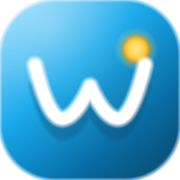
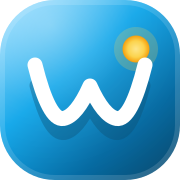
feat: 브랜드 이미지·파비콘·배너 비주얼 고도화
Wakation 전용 여정 준비 이미지를 생성·육안 검수해 하우스 배너와 OG 공유 이미지에 적용했습니다. 동일 SVG 원본에서 애플 아이콘·레거시 파비콘·192/512 PWA 아이콘·마스커블 아이콘을 재생성하고 매니페스트를 보완했습니다. 로고 인스턴스별 그라디언트 ID와 키보드 포커스를 개선했으며, 제휴 카드의 범용 에디토리얼 사진은 장식 이미지로 처리해 실상품 사진으로 오인될 수 있는 alt를 제거하고 색감을 통일했습니다. 모바일·데스크톱 화면, 신규 자산 HTTP 200, npx tsc --noEmit, npm run build를 검증했습니다.

diff --git a/src/components/brand/Logo.tsx b/src/components/brand/Logo.tsx
@@ -1,4 +1,5 @@
 import Link from 'next/link'
+import { useId } from 'react'
 import { cn } from '@/lib/utils'
 
 type LogoProps = {
@@ -7,27 +8,34 @@ type LogoProps = {
 }
 
 export function Logo({ className, variant = 'dark' }: LogoProps) {
+  const uid = useId().replace(/:/g, '')
+  const gradientId = `logo-grad-${uid}`
+  const highlightId = `logo-hl-${uid}`
+  const sunId = `logo-sun-${uid}`
   const wordmark = variant === 'light' ? 'text-white' : 'text-[#0d0d0d]'
   const tagline = variant === 'light' ? 'text-sky-300/90' : 'text-sky-600/80'
 
   return (
-    <Link href="/" className={cn('flex items-center gap-3 shrink-0 group', className)}>
+    <Link
+      href="/"
+      className={cn('flex items-center gap-2.5 sm:gap-3 shrink-0 group rounded-xl focus-visible:outline-2 focus-visible:outline-offset-4 focus-visible:outline-sky-400', className)}
+    >
       <svg
         width="36"
         height="36"
         viewBox="0 0 36 36"
         fill="none"
         xmlns="http://www.w3.org/2000/svg"
-        className="shrink-0 group-hover:scale-105 group-hover:rotate-[-3deg] transition-transform duration-300"
+        className="w-9 h-9 sm:w-10 sm:h-10 shrink-0 group-hover:scale-105 group-hover:rotate-[-3deg] transition-transform duration-300"
         aria-hidden
       >
-        <rect width="36" height="36" rx="11" fill="url(#logo-grad)" />
+        <rect width="36" height="36" rx="11" fill={`url(#${gradientId})`} />
         {/* 좌상단 하이라이트 — 유리 질감 깊이 */}
-        <rect width="36" height="36" rx="11" fill="url(#logo-hl)" />
+        <rect width="36" height="36" rx="11" fill={`url(#${highlightId})`} />
         <rect x="0.5" y="0.5" width="35" height="35" rx="10.5" fill="none" stroke="#ffffff" strokeOpacity="0.14" />
         {/* 태양 — 휴가의 따뜻함 (글로우 + 라디얼) */}
         <circle cx="27.2" cy="9.8" r="4.4" fill="#fcd34d" opacity="0.22" />
-        <circle cx="27.2" cy="9.8" r="2.7" fill="url(#logo-sun)" />
+        <circle cx="27.2" cy="9.8" r="2.7" fill={`url(#${sunId})`} />
         {/* 물결 W — 일과 바다가 만나는 곳 (에코 웨이브로 깊이) */}
         <path
           d="M7.4 15.5 Q10 25.4 12.9 24.9 Q15.4 24.4 18 18.9 Q20.6 24.4 23.1 24.9 Q26 25.4 28.6 15.5"
@@ -46,18 +54,18 @@ export function Logo({ className, variant = 'dark' }: LogoProps) {
           strokeLinejoin="round"
         />
         <defs>
-          <linearGradient id="logo-grad" x1="4" y1="2" x2="34" y2="36" gradientUnits="userSpaceOnUse">
+          <linearGradient id={gradientId} x1="4" y1="2" x2="34" y2="36" gradientUnits="userSpaceOnUse">
             <stop stopColor="#7dd3fc" />
             <stop offset="0.35" stopColor="#0ea5e9" />
             <stop offset="0.72" stopColor="#0369a1" />
             <stop offset="1" stopColor="#0c4a6e" />
           </linearGradient>
-          <radialGradient id="logo-hl" cx="0.28" cy="0.14" r="0.9">
+          <radialGradient id={highlightId} cx="0.28" cy="0.14" r="0.9">
             <stop stopColor="#ffffff" stopOpacity="0.32" />
             <stop offset="0.5" stopColor="#ffffff" stopOpacity="0.06" />
             <stop offset="1" stopColor="#ffffff" stopOpacity="0" />
           </radialGradient>
-          <radialGradient id="logo-sun" cx="0.5" cy="0.5" r="0.5">
+          <radialGradient id={sunId} cx="0.5" cy="0.5" r="0.5">
             <stop stopColor="#fde68a" />
             <stop offset="0.6" stopColor="#fcd34d" />
             <stop offset="1" stopColor="#f59e0b" />

diff --git a/src/components/home/HouseBanner.tsx b/src/components/home/HouseBanner.tsx
@@ -1,6 +1,7 @@
 'use client'
 
 import Link from 'next/link'
+import Image from 'next/image'
 import { ArrowRight, Sparkles } from 'lucide-react'
 import { track } from '@vercel/analytics/react'
 import { useLang } from '@/context/LanguageContext'
@@ -31,12 +32,22 @@ export function HouseBanner() {
               /* 계측 실패 무시 */
             }
           }}
-          className={`group relative block overflow-hidden rounded-3xl bg-gradient-to-r ${c.gradient} px-7 py-8 md:px-10 md:py-9 shadow-sm hover:shadow-lg transition-shadow`}
+          className={`group relative block overflow-hidden rounded-3xl bg-gradient-to-r ${c.gradient} px-7 py-8 md:px-10 md:py-9 shadow-sm hover:shadow-xl transition-all`}
         >
-          {/* 장식 글로우 */}
-          <div className="pointer-events-none absolute -right-10 -top-10 w-44 h-44 rounded-full bg-white/10 blur-2xl" />
+          {c.image && (
+            <Image
+              src={c.image}
+              alt=""
+              fill
+              sizes="(max-width: 768px) 100vw, 1152px"
+              className="object-cover object-[62%_center] md:object-center transition-transform duration-700 group-hover:scale-[1.02]"
+            />
+          )}
+          {/* 왼쪽 카피 대비 + 오른쪽 사진 디테일을 함께 살리는 브랜드 오버레이 */}
+          <div className="pointer-events-none absolute inset-0 bg-gradient-to-r from-[#04121f]/98 via-[#075985]/92 to-[#075985]/35" />
+          <div className="pointer-events-none absolute inset-0 bg-gradient-to-t from-[#04121f]/35 via-transparent to-white/5" />
           <div className="relative flex flex-col md:flex-row md:items-center gap-5 md:gap-8">
-            <div className="flex-1 min-w-0">
+            <div className="flex-1 min-w-0 md:max-w-3xl">
               <span className="inline-flex items-center gap-1.5 text-white/80 text-[0.6875rem] font-bold uppercase tracking-widest mb-2">
                 <Sparkles className="w-3.5 h-3.5" strokeWidth={ICON_STROKE} />
                 {c.eyebrow[lang]}
@@ -44,11 +55,11 @@ export function HouseBanner() {
               <h2 className="text-white font-black text-xl md:text-2xl leading-tight mb-1.5">
                 {c.title[lang]}
               </h2>
-              <p className="text-white/75 text-sm md:text-[0.9375rem] leading-relaxed">
+              <span className="block text-white/78 text-sm md:text-[0.9375rem] leading-relaxed">
                 {c.sub[lang]}
-              </p>
+              </span>
             </div>
-            <span className="shrink-0 inline-flex items-center gap-2 bg-white text-[#0c4a6e] font-bold text-sm px-6 py-3 rounded-full group-hover:gap-2.5 transition-all whitespace-nowrap">
+            <span className="shrink-0 inline-flex items-center gap-2 bg-white text-[#0c4a6e] font-bold text-sm px-6 py-3 rounded-full shadow-[0_8px_30px_rgba(4,18,31,0.18)] group-hover:gap-2.5 group-hover:bg-sky-50 transition-all whitespace-nowrap">
               {c.cta[lang]}
               <ArrowRight className="w-4 h-4" strokeWidth={ICON_STROKE} />
             </span>

diff --git a/src/components/affiliate/AffiliateCard.tsx b/src/components/affiliate/AffiliateCard.tsx
@@ -84,10 +84,10 @@ export function AffiliateCard({ item, className = '', visual = false }: Affiliat
           {hasPhoto ? (
             <Image
               src={item.coverPhoto!}
-              alt={title}
+              alt=""
               fill
               sizes="(max-width: 640px) 50vw, (max-width: 1024px) 33vw, 384px"
-              className="object-cover group-hover:scale-105 transition-transform duration-700"
+              className="object-cover saturate-[0.94] contrast-[1.03] group-hover:scale-105 group-hover:saturate-100 transition-all duration-700"
             />
           ) : (
             /* 사진 없는 카드 — 흐릿한 이모지 대신 의도된 커버 디자인 (도트 패턴 + 큰 아이콘) */
@@ -237,7 +237,7 @@ export function AffiliateCard({ item, className = '', visual = false }: Affiliat
           {item.coverPhoto ? (
             <Image
               src={item.coverPhoto}
-              alt={title}
+              alt=""
               fill
               sizes="(max-width: 640px) 100vw, (max-width: 1024px) 50vw, 384px"
               className="object-cover opacity-80 group-hover:scale-105 group-hover:opacity-90 transition-all duration-700"

diff --git a/src/app/layout.tsx b/src/app/layout.tsx
@@ -32,7 +32,7 @@ export const metadata: Metadata = {
     // 기본 공유 썸네일 (1200×630) — 카톡·페북·슬랙 링크 미리보기
     images: [
       {
-        url: 'https://images.unsplash.com/photo-1520250497591-112f2f40a3f4?auto=format&fit=crop&w=1200&h=630&q=80',
+        url: 'https://www.wakation.kr/og-wakation-ai.jpeg',
         width: 1200,
         height: 630,
         alt: 'Wakation — 일하는 곳이 휴가지가 되는 순간',
@@ -44,7 +44,7 @@ export const metadata: Metadata = {
     title: 'Wakation | 일하고 쉬고 성장하는 워케이션 플랫폼',
     description: '국내외 워케이션, 성장캠프, 시장조사단, 어학·유학, 비자·체류 정보까지 일하는 사람을 위한 새로운 체류 플랫폼.',
     creator: '@wakation_kr',
-    images: ['https://images.unsplash.com/photo-1520250497591-112f2f40a3f4?auto=format&fit=crop&w=1200&h=630&q=80'],
+    images: ['https://www.wakation.kr/og-wakation-ai.jpeg'],
   },
   robots: {
     index: true,

diff --git a/src/app/manifest.ts b/src/app/manifest.ts
@@ -21,7 +21,10 @@ export default function manifest(): MetadataRoute.Manifest {
     categories: ['travel', 'business', 'lifestyle'],
     icons: [
       { src: '/icon.svg', type: 'image/svg+xml', sizes: 'any', purpose: 'any' },
-      { src: '/apple-icon.png', type: 'image/png', sizes: '180x180', purpose: 'maskable' },
+      { src: '/apple-icon.png', type: 'image/png', sizes: '180x180', purpose: 'any' },
+      { src: '/icons/wakation-192.png', type: 'image/png', sizes: '192x192', purpose: 'any' },
+      { src: '/icons/wakation-512.png', type: 'image/png', sizes: '512x512', purpose: 'any' },
+      { src: '/icons/wakation-maskable-512.png', type: 'image/png', sizes: '512x512', purpose: 'maskable' },
     ],
   }
 }

diff --git a/src/lib/campaigns.ts b/src/lib/campaigns.ts
@@ -20,6 +20,7 @@ export type HouseCampaign = {
   cta: L
   href: string
   gradient: string // tailwind gradient (from-… via-… to-…)
+  image?: string   // 배경 이미지. 카피는 HTML로 유지해 3언어·접근성 보장
   event: string    // Vercel Analytics 이벤트명
 }
 
@@ -41,6 +42,7 @@ export const HOUSE_CAMPAIGNS: HouseCampaign[] = [
     cta: { KO: '예약 허브 보기', EN: 'Open the booking hub', JP: '予約ハブを見る' },
     href: '/select',
     gradient: 'from-[#0284c7] via-[#0369a1] to-[#075985]',
+    image: '/covers/trip-prep-allinone-ai.jpeg',
     event: 'house_banner_clicked',
   },
   {
